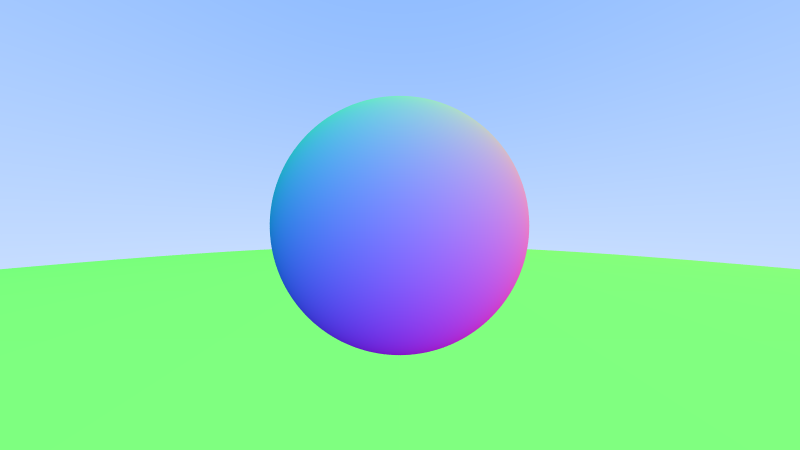
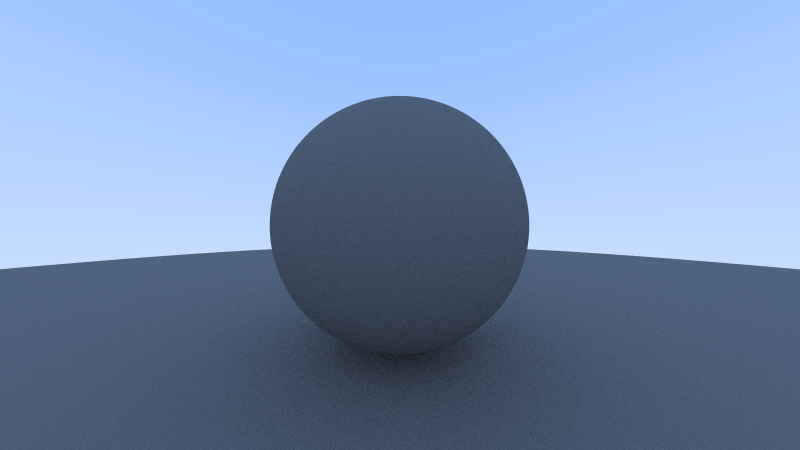
Consider materials when rendering rays

diff --git a/src/scene.rs b/src/scene.rs
@@ -1,13 +1,20 @@
 // Imports.
 use crate::image;
+use crate::materials::*;
 use crate::surfaces::*;
 use crate::types::Ray;
 use std::cmp::Ordering;
 use std::ops::Range;
 
+/// An object, defined as a surface with a material.
+pub struct Object {
+    pub surface: Box<dyn Surface>,
+    pub material: Box<dyn Material>,
+}
+
 /// A full, renderable "scene".
 pub struct Scene {
-    pub surfaces: Vec<Box<dyn Surface>>,
+    pub objects: Vec<Object>,
 }
 
 impl Ray {
@@ -18,12 +25,21 @@ impl Ray {
     /// * `ray` - the ray to trace along
     /// * `scene` - the scene to intersect in
     /// * `filter` - a distance range in which to intersect
-    fn intersects(&self, scene: &Scene, filter: Range<f32>) -> Option<Intersection> {
+    fn intersects<'a>(
+        &self,
+        scene: &'a Scene,
+        filter: Range<f32>,
+    ) -> Option<(Intersection, &'a dyn Material)> {
         scene
-            .surfaces
+            .objects
             .iter()
-            .filter_map(|surface| surface.intersected_by(self))
-            .map(|match_| (match_, (match_.point() - self.origin()).norm()))
+            .filter_map(|object| {
+                object
+                    .surface
+                    .intersected_by(self)
+                    .map(|intersection| (intersection, &*object.material))
+            })
+            .map(|match_| (match_, (match_.0.point() - self.origin()).norm()))
             .filter(|(_, distance)| filter.contains(distance))
             .min_by(|(_, a), (_, b)| match (a.is_nan(), b.is_nan()) {
                 (true, true) => Ordering::Equal,
@@ -47,13 +63,10 @@ impl Scene {
             // We reached the recusion depth. Return a black pixel.
             return image::Pixel::default();
         }
-        if let Some(intersection) = ray.intersects(self, 0.0..f32::INFINITY) {
-            // We have an intersection! Map the normal to colors.
-            image::Pixel {
-                r: 0.5 * (intersection.normal().x + 1.0),
-                g: 0.5 * (intersection.normal().y + 1.0),
-                b: 0.5 * (intersection.normal().z + 1.0),
-            }
+        if let Some((intersection, material)) = ray.intersects(self, 0.001..f32::INFINITY) {
+            // We have an intersection! Recurse, then absorb part of the color.
+            let reflected = material.reflect_at(ray, &intersection);
+            material.absorb(&self.render_ray(&reflected, depth - 1))
         } else {
             // Fall-back: fancy blue-ish gradient
             let t = 0.5 * (ray.direction().y + 1.0);
@@ -70,10 +83,11 @@ impl Scene {
 mod test {
     use super::*;
     use crate::types::{Point3, Vect3};
-    use pretty_assertions::{assert_eq, assert_ne};
+    use pretty_assertions::assert_eq;
 
     #[test]
     fn test_intersection_filter() {
+        let material = Lambertian { absorption: 1.0 };
         let sphere = Sphere {
             center: Point3 {
                 z: 2.0,
@@ -90,15 +104,19 @@ mod test {
         );
 
         let scene = Scene {
-            surfaces: vec![Box::new(sphere)],
+            objects: vec![Object {
+                surface: Box::new(sphere),
+                material: Box::new(material),
+            }],
         };
-        assert_ne!(ray.intersects(&scene, 0.0..f32::INFINITY), None);
-        assert_eq!(ray.intersects(&scene, 0.0..0.5), None);
-        assert_eq!(ray.intersects(&scene, 1.5..2.0), None);
+        assert!(ray.intersects(&scene, 0.0..f32::INFINITY).is_some());
+        assert!(ray.intersects(&scene, 0.0..0.5).is_none());
+        assert!(ray.intersects(&scene, 1.5..2.0).is_none());
     }
 
     #[test]
     fn test_multiple_objects() {
+        let material = Lambertian { absorption: 1.0 };
         let sphere_a = Sphere {
             center: Point3 {
                 z: 2.0,
@@ -122,11 +140,20 @@ mod test {
         );
 
         let scene = Scene {
-            surfaces: vec![Box::new(sphere_a), Box::new(sphere_b)],
+            objects: vec![
+                Object {
+                    surface: Box::new(sphere_a),
+                    material: Box::new(material),
+                },
+                Object {
+                    surface: Box::new(sphere_b),
+                    material: Box::new(material),
+                },
+            ],
         };
         assert_eq!(
             ray.intersects(&scene, 0.0..f32::INFINITY)
-                .map(|match_| match_.point()),
+                .map(|(intersection, _)| intersection.point()),
             Some(Point3 {
                 z: 1.0,
                 ..Point3::zero()
@@ -134,7 +161,7 @@ mod test {
         );
         assert_eq!(
             ray.intersects(&scene, 2.0..f32::INFINITY)
-                .map(|match_| match_.point()),
+                .map(|(intersection, _)| intersection.point()),
             Some(Point3 {
                 z: 3.0,
                 ..Point3::zero()

diff --git a/src/lib.rs b/src/lib.rs
@@ -10,30 +10,36 @@ mod types;
 
 use camera::Camera;
 pub use image::Image;
-use scene::Scene;
+use materials::{Hemispherical, Lambertian};
+use scene::{Object, Scene};
 use surfaces::Sphere;
 use types::{Point3, Vect3};
 
 /// Get a sample scene containing sample surfaces.
 pub fn get_scene() -> Scene {
+    let sphere = Object {
+        surface: Box::new(Sphere {
+            center: Point3 {
+                z: -1.0,
+                ..Point3::zero()
+            },
+            radius: 0.5,
+        }),
+        material: Box::new(Lambertian { absorption: 0.5 }),
+    };
+    let ground = Object {
+        surface: Box::new(Sphere {
+            center: Point3 {
+                y: -100.5,
+                z: -1.0,
+                ..Point3::zero()
+            },
+            radius: 100.0,
+        }),
+        material: Box::new(Hemispherical { absorption: 0.5 }),
+    };
     Scene {
-        surfaces: vec![
-            Box::new(Sphere {
-                center: Point3 {
-                    z: -1.0,
-                    ..Point3::zero()
-                },
-                radius: 0.5,
-            }),
-            Box::new(Sphere {
-                center: Point3 {
-                    y: -100.5,
-                    z: -1.0,
-                    ..Point3::zero()
-                },
-                radius: 100.0,
-            }),
-        ],
+        objects: vec![sphere, ground],
     }
 }
 
